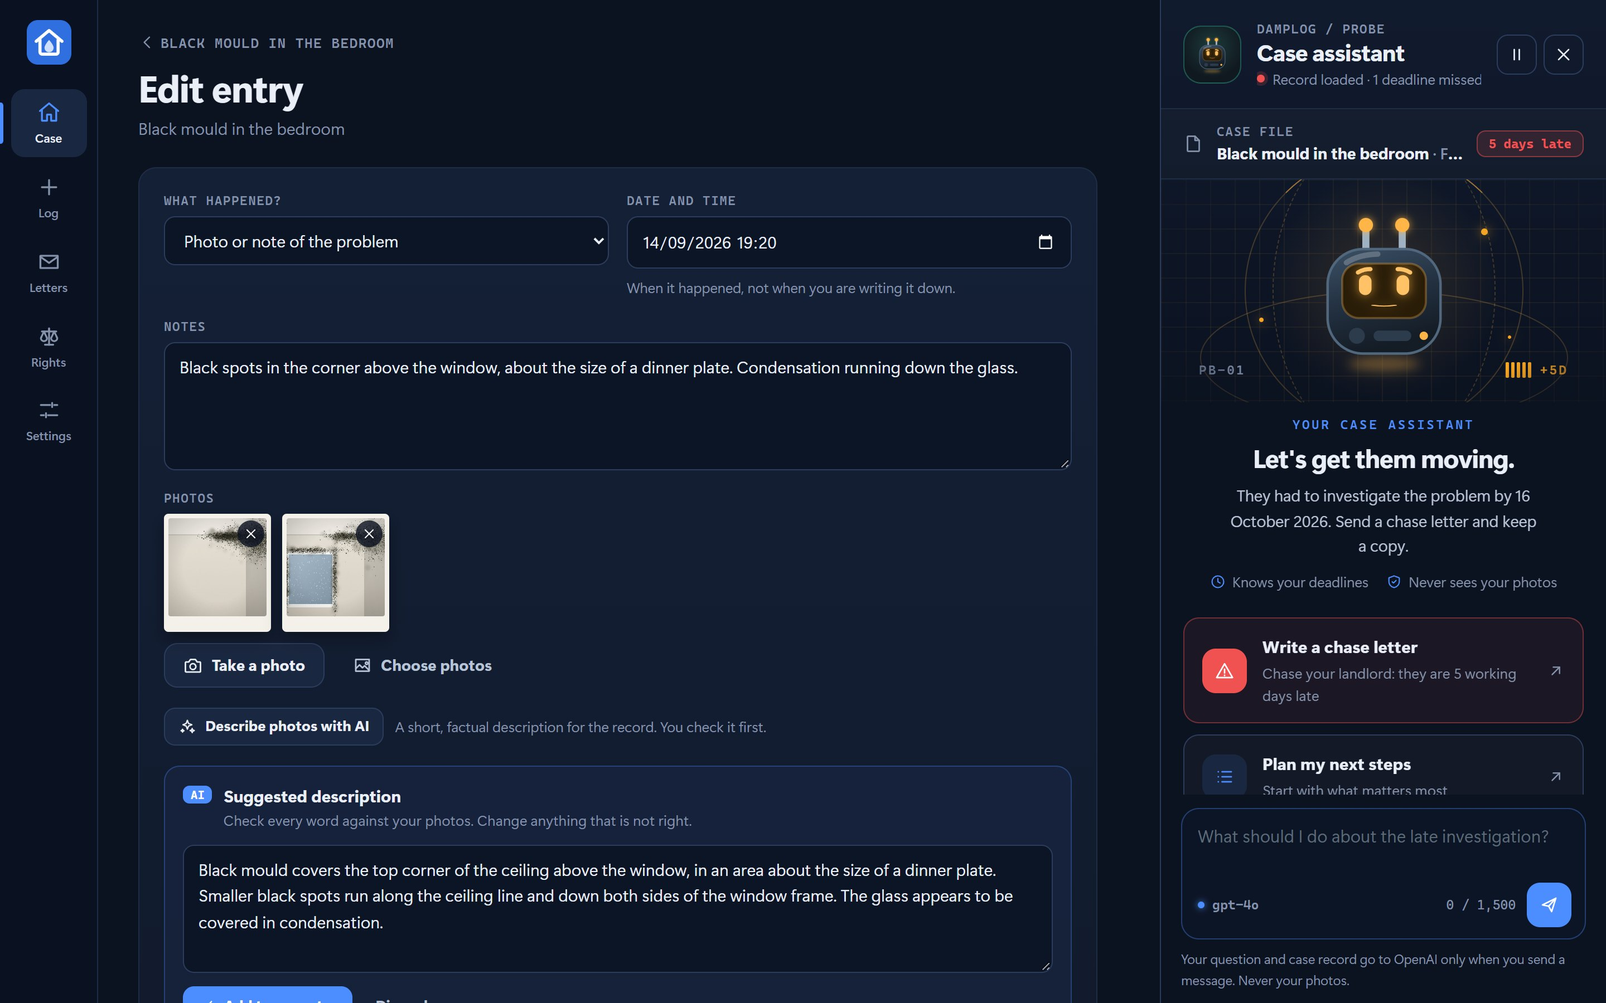
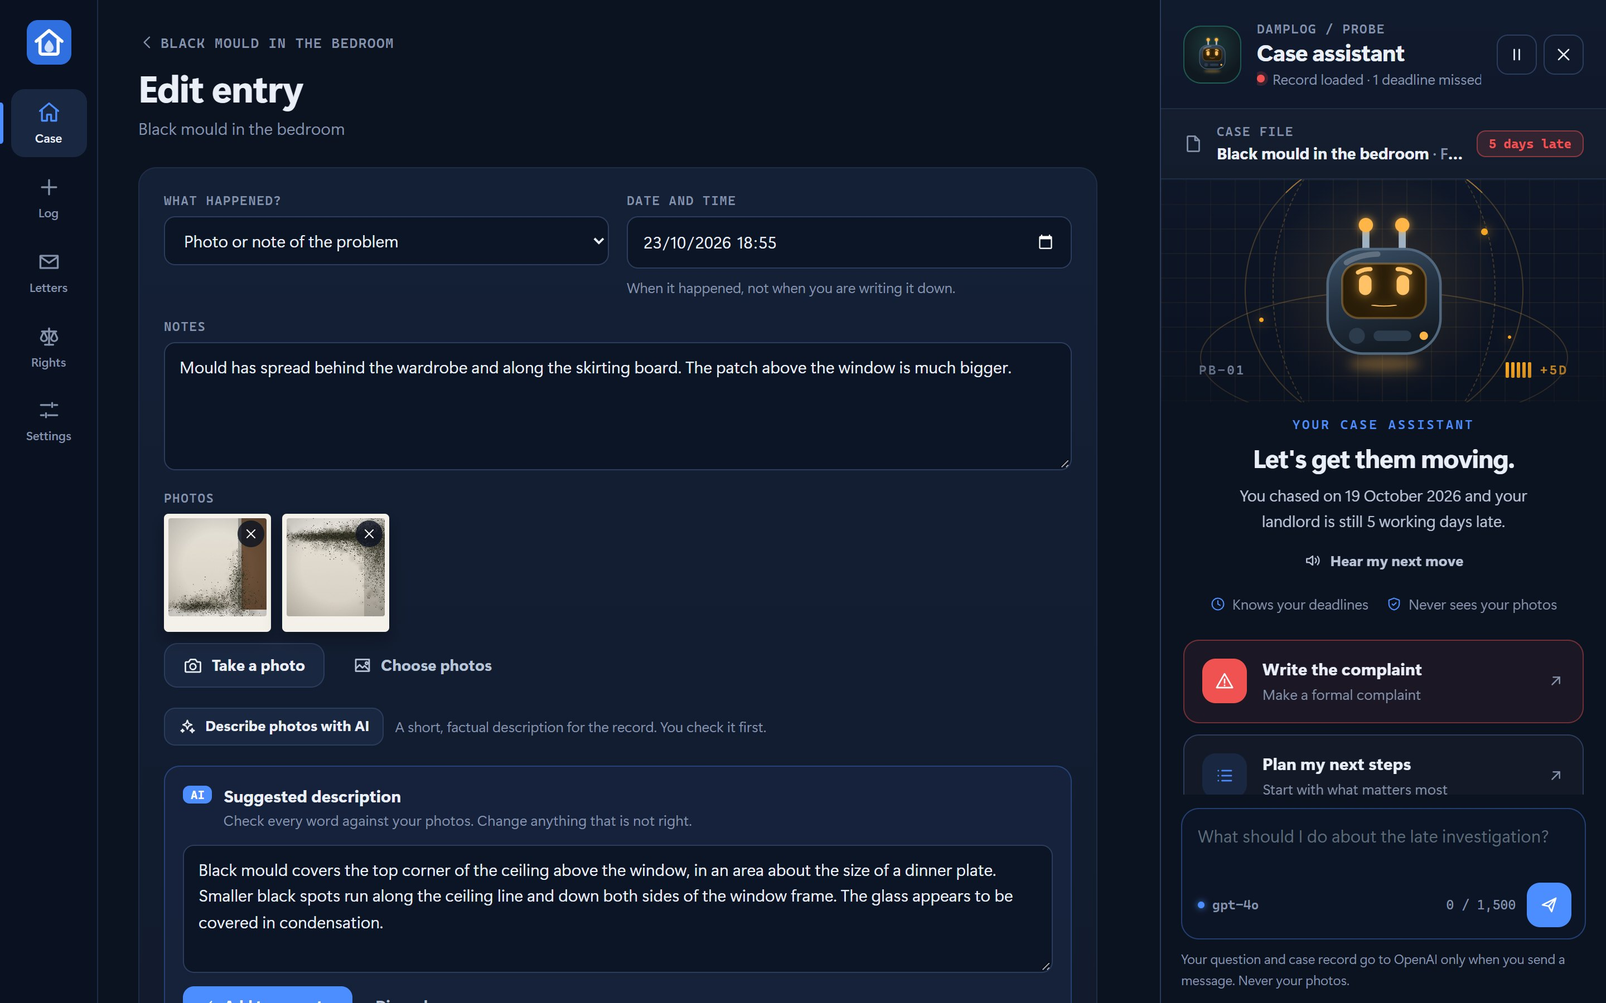
Add then-and-now photos, calendar reminders and Probe's voice
Drag across two photos of the same spot to show how a problem has spread,
also shown side by side in the evidence report. Upcoming landlord
deadlines save as a calendar file with reminders. Probe reads its answers
aloud with the device's own voice, offline.

diff --git a/js/app.js b/js/app.js
@@ -570,7 +570,7 @@ function viewIssue(id) {
         btn('Write the report', { icon: 'mail', size: 'sm', kind: 'primary', href: `#/letters/${issue.id}?kind=report` }),
         btn('I have reported it', { icon: 'check', size: 'sm', href: `#/add/${issue.id}?type=reported` }))),
     h('div', { class: 'grid-2 wide-left' },
-      timelineCard(issue, s),
+      h('div', { class: 'stack' }, compareCard(issue), timelineCard(issue, s)),
       h('div', { class: 'stack' },
         deadlinesCard(issue, s, t),
         card('',
@@ -580,6 +580,70 @@ function viewIssue(id) {
           h('div', { class: 'actions' },
             s.fixed ? btn('Reopen', { icon: 'refresh', size: 'sm', onclick: reopen }) : btn('Mark as fixed', { icon: 'check', size: 'sm', href: `#/add/${issue.id}?type=fixed` }),
             btn('Delete', { icon: 'trash', size: 'sm', kind: 'ghost', onclick: deleteIssue }))))));
+}
+
+/** Then and now: drag across two photos of the same problem to show how it has changed. */
+function compareCard(issue) {
+  const photos = state.photos.filter((p) => p.issueId === issue.id).sort((a, b) => String(a.takenAt).localeCompare(String(b.takenAt)));
+  if (photos.length < 2) return null;
+  let then = photos[0];
+  let now = photos.at(-1);
+  const thenImg = h('img', { alt: '' });
+  const nowImg = h('img', { alt: '' });
+  const thenLabel = h('span', { class: 'cmp-label then' });
+  const nowLabel = h('span', { class: 'cmp-label now' });
+  const gap = h('span', { class: 'cmp-gap' });
+  const frame = h('div', { class: 'compare' }, nowImg, h('div', { class: 'compare-then' }, thenImg), h('span', { class: 'compare-handle' }), thenLabel, nowLabel);
+  const range = h('input', { type: 'range', min: 0, max: 100, value: 50, class: 'compare-range', 'aria-label': 'Slide between the earlier and the later photo' });
+  const setPos = (pct) => {
+    const v = Math.max(0, Math.min(100, pct));
+    range.value = String(Math.round(v));
+    frame.style.setProperty('--pos', `${v}%`);
+  };
+  const paint = () => {
+    thenImg.src = photoUrl(then);
+    nowImg.src = photoUrl(now);
+    thenLabel.textContent = `Then · ${fmtDate(then.takenAt)}`;
+    nowLabel.textContent = `Now · ${fmtDate(now.takenAt)}`;
+    const days = core.daysBetween(core.dateOf(then.takenAt), core.dateOf(now.takenAt));
+    gap.textContent = days > 0 ? `${plural(days, 'day')} apart` : 'Same day';
+  };
+  range.addEventListener('input', () => setPos(Number(range.value)));
+  // Drag straight on the photos too, with a finger or a mouse.
+  const follow = (e) => {
+    const box = frame.getBoundingClientRect();
+    setPos(((e.clientX - box.left) / box.width) * 100);
+  };
+  frame.addEventListener('pointerdown', (e) => {
+    frame.setPointerCapture(e.pointerId);
+    follow(e);
+  });
+  frame.addEventListener('pointermove', (e) => { if (frame.hasPointerCapture(e.pointerId)) follow(e); });
+  const choose = (which) => h('select', {
+    'aria-label': which === 'then' ? 'Earlier photo' : 'Later photo',
+    onchange: (e) => {
+      const p = photos.find((x) => x.id === e.target.value);
+      if (which === 'then') then = p;
+      else now = p;
+      paint();
+    },
+  }, photos.map((p, i) => h('option', { value: p.id, selected: p === (which === 'then' ? then : now) }, `Photo ${i + 1} · ${fmtTime(p.takenAt)}`)));
+  paint();
+  setPos(50);
+  return card('compare-card',
+    cardHead('Then and now', { iconName: 'compare', sub: 'Drag across the photo to show how it has changed' }),
+    frame, range,
+    h('div', { class: 'compare-foot' }, choose('then'), gap, choose('now')));
+}
+
+function downloadCalendar(list) {
+  const ics = core.deadlineCalendar(state.home, list, new Date().toISOString());
+  if (!ics) {
+    toast('There are no upcoming deadlines to add.', 'bad');
+    return;
+  }
+  download('damplog-deadlines.ics', ics, 'text/calendar');
+  toast('Calendar file saved. Open it to add the deadlines and reminders to your calendar.');
 }
 
 function deadlinesCard(issue, s, t) {
@@ -607,7 +671,9 @@ function deadlinesCard(issue, s, t) {
     cardHead('Landlord deadlines', { iconName: 'clock', sub }),
     d.reportedAt && h('p', { class: 'small' }, `Told ${fmtTime(d.reportedAt)} · ${plural(s.workingDaysSinceReport, 'working day')} ago`),
     body,
-    d.overdue.length > 0 && btn('Chase your landlord', { icon: 'mail', kind: 'primary', href: `#/letters/${issue.id}?kind=chase` }));
+    h('div', { class: 'actions' },
+      d.overdue.length > 0 && btn('Chase your landlord', { icon: 'mail', kind: 'primary', href: `#/letters/${issue.id}?kind=chase` }),
+      d.steps.some((x) => x.status === 'pending' && x.due) && btn('Add to my calendar', { icon: 'calendar', onclick: () => downloadCalendar([s]) })));
 }
 
 function timelineCard(issue, s) {
@@ -950,6 +1016,17 @@ function viewReport(id) {
             h('td', {}, step.dueAt ? fmtTime(step.dueAt) : step.due ? fmtDate(step.due) : '—'),
             h('td', {}, step.doneAt ? fmtTime(step.doneAt) : '—'),
             h('td', {}, STEP_TONE[step.status][1])))))),
+      allPhotos.length > 1 && (() => {
+        // The first and latest photos side by side show whether the problem is getting worse.
+        const byTime = allPhotos.map((x) => x.photo).sort((a, b) => String(a.takenAt).localeCompare(String(b.takenAt)));
+        const [first, last] = [byTime[0], byTime.at(-1)];
+        const days = core.daysBetween(core.dateOf(first.takenAt), core.dateOf(last.takenAt));
+        return h('section', { class: 'report-compare' },
+          h('h2', {}, `Then and now · ${plural(days, 'day')} apart`),
+          h('div', { class: 'photo-grid' }, [[first, 'Then'], [last, 'Now']].map(([p, label]) => h('figure', {},
+            h('img', { src: photoUrl(p), alt: `${label}: photo ${photoNumber.get(p.id)}` }),
+            h('figcaption', {}, h('strong', {}, `${label}. `), `Photo ${photoNumber.get(p.id)} · ${fmtTime(p.takenAt)}`)))));
+      })(),
       h('section', {},
         h('h2', {}, 'Timeline'),
         h('table', { class: 'grid timeline-table' },
@@ -1006,6 +1083,7 @@ function openProbe({ focus = false, ask } = {}) {
     if (!probePanel) {
       probePanel = h('dialog', { class: 'probe-panel', 'aria-label': 'Probe, your case assistant', tabindex: '-1' });
       probePanel.addEventListener('click', (e) => { if (e.target === probePanel) probePanel.close(); });
+      probePanel.addEventListener('close', stopSpeaking);
       document.body.append(probePanel);
     }
     if (!probePanel.open) {
@@ -1020,6 +1098,7 @@ function openProbe({ focus = false, ask } = {}) {
 }
 
 function closeProbe() {
+  stopSpeaking();
   if (probeDocked()) {
     chat.hidden = true;
     render();
@@ -1035,6 +1114,40 @@ function goFromProbe(href) {
 
 wide.addEventListener('change', () => render());
 
+// Probe reads aloud with the device's own voice, so it works offline and sends
+// nothing anywhere. Its mouth moves while it speaks.
+const canSpeak = 'speechSynthesis' in window;
+
+function restMood() {
+  const lead = summaries().find((s) => !s.fixed);
+  return chat.busy ? 'thinking' : lead?.deadlines.overdue.length ? 'alert' : 'idle';
+}
+
+function stopSpeaking() {
+  if (canSpeak) speechSynthesis.cancel();
+}
+
+function speak(text, face) {
+  if (!canSpeak) return;
+  if (speechSynthesis.speaking) {
+    stopSpeaking();
+    return;
+  }
+  // Read the words, not the formatting: drop bold marks, headings and list markers.
+  const plain = text.replace(/\*\*|`/g, '').replace(/^\s*#+\s*/gm, '').replace(/^\s*(?:[-*•]|\d+[.)])\s+/gm, '');
+  const say = new SpeechSynthesisUtterance(plain);
+  const voices = speechSynthesis.getVoices();
+  say.voice = voices.find((v) => v.lang === 'en-GB') ?? voices.find((v) => v.lang.startsWith('en')) ?? null;
+  say.lang = 'en-GB';
+  say.onstart = () => [face, chat.face].forEach((f) => setProbeMood(f, 'talking'));
+  say.onend = () => {
+    setProbeMood(face, face === chat.face ? restMood() : 'idle');
+    setProbeMood(chat.face, restMood());
+  };
+  say.onerror = say.onend;
+  speechSynthesis.speak(say);
+}
+
 function fillReply(m) {
   if (!m.el) return;
   const { text, actions } = splitActions(m.content);
@@ -1043,8 +1156,9 @@ function fillReply(m) {
   else if (!text) m.el.replaceChildren(h('span', { class: 'typing', 'aria-label': 'Probe is taking a reading' }, h('i'), h('i'), h('i')));
   else {
     m.el.replaceChildren(...[renderMarkdown(text),
-      !m.pending && urgent && actions.length > 0 && h('div', { class: 'msg-actions' },
-        actions.map((id) => btn(ACTION_IDS[id].label, { size: 'sm', icon: 'next', onclick: () => goFromProbe(ACTION_IDS[id].path(urgent.issue.id)) })))].filter(Boolean));
+      !m.pending && h('div', { class: 'msg-actions' },
+        urgent && actions.map((id) => btn(ACTION_IDS[id].label, { size: 'sm', icon: 'next', onclick: () => goFromProbe(ACTION_IDS[id].path(urgent.issue.id)) })),
+        canSpeak && btn('Listen', { size: 'sm', icon: 'volume', kind: 'ghost', onclick: () => speak(text, m.face) }))].filter(Boolean));
   }
   const mood = m.pending ? (text ? 'talking' : 'thinking') : 'idle';
   setProbeMood(m.face, mood);
@@ -1089,7 +1203,7 @@ function paintProbe() {
       h('h2', {}, 'Case assistant'),
       h('span', { class: `pp-status ${late ? 'bad' : ''}` }, h('i'), status)),
     h('div', { class: 'pp-tools' },
-      talking && !chat.busy && btn('', { icon: 'refresh', title: 'New chat', onclick: () => { chat.messages = []; paintProbe(); } }),
+      talking && !chat.busy && btn('', { icon: 'refresh', title: 'New chat', onclick: () => { stopSpeaking(); chat.messages = []; paintProbe(); } }),
       btn('', { icon: chat.calm ? 'play' : 'pause', title: chat.calm ? 'Play animations' : 'Pause animations', onclick: () => { chat.calm = !chat.calm; paintProbe(); } }),
       btn('', { icon: 'close', title: docked ? 'Hide Probe' : 'Close', onclick: closeProbe })));
 
@@ -1123,6 +1237,7 @@ function paintProbe() {
         h('span', { class: 'kicker' }, 'Your case assistant'),
         h('h3', {}, late ? 'Let\'s get them moving.' : steps.length ? 'Let\'s keep your case on track.' : 'All quiet on your case.'),
         h('p', {}, steps[0]?.text ?? 'Ask me anything about your record. I know your dates and the deadlines.'),
+        canSpeak && steps[0] && btn('Hear my next move', { icon: 'volume', size: 'sm', kind: 'ghost', onclick: () => speak(`${steps[0].title}. ${steps[0].text}`, chat.face) }),
         h('div', { class: 'pp-chips' },
           h('span', {}, icon('clock', 14), 'Knows your deadlines'),
           h('span', {}, icon('shield', 14), 'Never sees your photos'))),

diff --git a/js/core.js b/js/core.js
@@ -317,3 +317,59 @@ export function caseClock(summary, today) {
   if (truncated) days = days.slice(-MAX_CELLS);
   return { mode: 'days', step, start, due: step.due, allowed, elapsed, overdueBy: Math.max(0, elapsed - allowed), days, truncated };
 }
+
+/* ---------- deadlines as calendar events ---------- */
+
+const icsText = (s) => String(s).replace(/\\/g, '\\\\').replace(/;/g, '\\;').replace(/,/g, '\\,').replace(/\r?\n/g, '\\n');
+const encoder = new TextEncoder();
+
+// Calendar lines may be at most 75 bytes; longer ones carry on after a line break and a space.
+function fold(line) {
+  const parts = [];
+  let rest = line;
+  let limit = 75;
+  while (encoder.encode(rest).length > limit) {
+    let cut = limit;
+    while (encoder.encode(rest.slice(0, cut)).length > limit) cut--;
+    parts.push(rest.slice(0, cut));
+    rest = rest.slice(cut);
+    limit = 74;
+  }
+  parts.push(rest);
+  return parts.join('\r\n ');
+}
+
+/**
+ * The landlord's upcoming deadlines as an iCalendar file, so a phone calendar can
+ * remind the tenant. Each deadline is an all-day event (or a timed one for the
+ * 24-hour emergency clock) with a reminder before it. Returns null if nothing is due.
+ * @param {string} stamp ISO time the file is made
+ */
+export function deadlineCalendar(home, summaries, stamp) {
+  const utc = new Date(stamp).toISOString().replace(/[-:]/g, '').replace(/\.\d{3}/, '');
+  const events = [];
+  for (const s of summaries) {
+    if (s.fixed) continue;
+    for (const step of s.deadlines.steps) {
+      if (step.status !== 'pending' || !step.due) continue;
+      const who = home.landlordName || 'Your landlord';
+      const what = step.title.charAt(0).toLowerCase() + step.title.slice(1);
+      events.push('BEGIN:VEVENT', `UID:${s.issue.id}-${step.key}@damplog`, `DTSTAMP:${utc}`);
+      if (step.dueAt) {
+        const at = `${step.dueAt.replace(/[-:]/g, '')}00`;
+        events.push(`DTSTART:${at}`, `DTEND:${at}`);
+      } else {
+        events.push(`DTSTART;VALUE=DATE:${step.due.replace(/-/g, '')}`, `DTEND;VALUE=DATE:${addDays(step.due, 1).replace(/-/g, '')}`);
+      }
+      events.push(
+        `SUMMARY:${icsText(`Deadline: ${who} must ${what} (${s.issue.title})`)}`,
+        `DESCRIPTION:${icsText(`${step.rule}. If it has not happened by the end of the day, open DampLog and send a chase letter.`)}`,
+        'BEGIN:VALARM', 'ACTION:DISPLAY',
+        `DESCRIPTION:${icsText(`${step.dueAt ? 'In 2 hours' : 'Tomorrow'}: ${who} must ${what}`)}`,
+        step.dueAt ? 'TRIGGER:-PT2H' : 'TRIGGER:-PT15H',
+        'END:VALARM', 'END:VEVENT');
+    }
+  }
+  if (!events.length) return null;
+  return `${['BEGIN:VCALENDAR', 'VERSION:2.0', 'PRODID:-//DampLog//Landlord deadlines//EN', 'CALSCALE:GREGORIAN', 'METHOD:PUBLISH', 'X-WR-CALNAME:DampLog deadlines', ...events, 'END:VCALENDAR'].map(fold).join('\r\n')}\r\n`;
+}

diff --git a/js/sample.js b/js/sample.js
@@ -65,7 +65,7 @@ function vignette(ctx, w, h) {
 
 const MOULD = ['rgba(28,30,24,A)', 'rgba(44,48,34,A)', 'rgba(62,58,40,A)', 'rgba(20,20,20,A)'];
 
-/** Draws one sample photo: 'corner', 'window', 'wardrobe' or 'sink'. */
+/** Draws one sample photo: 'corner', 'corner-late', 'window', 'wardrobe' or 'sink'. */
 export function drawSample(kind, seed = 1) {
   const w = 1200;
   const h = 900;
@@ -142,6 +142,8 @@ export function drawSample(kind, seed = 1) {
       spots(ctx, r, [{ x: 370, y: 296, sx: 160, sy: 12 }, { x: 150, y: 560, sx: 10, sy: 150 }, { x: 590, y: 560, sx: 10, sy: 150 }], 2600, MOULD);
     }
     spots(ctx, r, [{ x: 870, y: 175, sx: 120, sy: 55 }, { x: 980, y: 210, sx: 80, sy: 90 }, { x: 700, y: 165, sx: 90, sy: 18 }], kind === 'window' ? 3200 : 6500, MOULD);
+    // Weeks later the same corner: the growth has spread along the ceiling and down the wall.
+    if (kind === 'corner-late') spots(ctx, r, [{ x: 760, y: 190, sx: 230, sy: 70 }, { x: 1010, y: 360, sx: 90, sy: 200 }, { x: 480, y: 168, sx: 170, sy: 22 }], 9000, MOULD);
   }
   vignette(ctx, w, h);
   return canvas;
@@ -202,8 +204,8 @@ export function sampleData(today, ctx) {
     { issueId: mould.id, type: 'contact', at: at(weekday(addDays(today, -6)), '13:40'), method: 'Email',
       text: 'Emailed repairs to ask when the surveyor will visit. No reply yet.' },
     { issueId: mould.id, type: 'observation', at: at(addDays(today, -2), '18:55'),
-      text: 'Mould has spread behind the wardrobe and along the skirting board.',
-      photoIds: [photo(mould, 'wardrobe', 23, at(addDays(today, -2), '18:52'))] },
+      text: 'Mould has spread behind the wardrobe and along the skirting board. The patch above the window is much bigger.',
+      photoIds: [photo(mould, 'wardrobe', 23, at(addDays(today, -2), '18:52')), photo(mould, 'corner-late', 7, at(addDays(today, -2), '18:54'))] },
 
     { issueId: leak.id, type: 'observation', at: at(addDays(today, -84), '20:30'), text: 'Water pooling in the cupboard under the sink.',
       photoIds: [photo(leak, 'sink', 5, at(addDays(today, -84), '20:28'))] },

diff --git a/css/styles.css b/css/styles.css
@@ -731,3 +731,20 @@ button.thumb:hover { transform: rotate(0) scale(1.04); }
 }
 .clock-head h2 a { color: var(--ink); }
 .clock-head h2 a:hover { color: var(--accent); text-decoration: none; }
+
+/* ---------- then and now ---------- */
+
+.compare { --pos: 50%; position: relative; aspect-ratio: 4 / 3; border-radius: 12px; overflow: hidden; background: #05080e; cursor: ew-resize; touch-action: none; user-select: none; }
+.compare img { position: absolute; inset: 0; width: 100%; height: 100%; object-fit: cover; pointer-events: none; }
+.compare-then { position: absolute; inset: 0; clip-path: inset(0 calc(100% - var(--pos)) 0 0); }
+.compare-handle { position: absolute; top: 0; bottom: 0; left: var(--pos); width: 2px; margin-left: -1px; background: #fff; box-shadow: 0 0 0 1px rgb(0 0 0 / 25%); pointer-events: none; }
+.compare-handle::after { content: "‹ ›"; position: absolute; top: 50%; left: 50%; display: grid; place-items: center; width: 40px; height: 40px; border-radius: 50%; transform: translate(-50%, -50%); background: #fff; color: #0b1220; font: 800 1rem/1 var(--font); letter-spacing: 0.08em; box-shadow: 0 6px 16px rgb(0 0 0 / 45%); }
+.cmp-label { position: absolute; top: 12px; padding: 4px 9px; border-radius: 8px; background: rgb(11 18 32 / 78%); color: #fff; font: 600 0.72rem var(--mono); letter-spacing: 0.04em; pointer-events: none; }
+.cmp-label.then { left: 12px; }
+.cmp-label.now { right: 12px; background: var(--accent); }
+.compare-range { padding: 0; border: 0; background: none; box-shadow: none; accent-color: var(--accent); }
+.compare-range:focus { box-shadow: none; }
+.compare-foot { display: flex; align-items: center; gap: 10px; }
+.compare-foot select { flex: 1; min-width: 0; font-size: 0.84rem; padding: 8px 10px; }
+.cmp-gap { flex: none; font: 700 0.74rem var(--mono); color: var(--accent); text-transform: uppercase; letter-spacing: 0.06em; }
+@media (max-width: 560px) { .compare-foot { flex-wrap: wrap; } .compare-foot select { flex: 1 1 100%; } .cmp-gap { order: -1; } }

diff --git a/tests/core.test.js b/tests/core.test.js
@@ -181,3 +181,25 @@ test('the clock has nothing to count before reporting, after fixing, or for emer
   assert.equal(caseClock(e, today('2026-10-20', '10:00')).mode, 'long');
   assert.equal(caseClock(issueSummary(issue(), [entry('reported', '2026-10-01T10:00')], 'private', today('2026-10-20')), today('2026-10-20')).mode, 'no-deadlines');
 });
+
+test('upcoming deadlines become calendar events with reminders', async () => {
+  const { deadlineCalendar } = await import('../js/core.js');
+  const s = issueSummary(cleanIssue({ id: 'i1', kind: 'damp-mould', title: 'Mould, bedroom; window' }, ctx), [entry('reported', '2026-10-12T10:00')], 'social', today('2026-10-20'));
+  const ics = deadlineCalendar({ landlordName: 'Elm Court Homes, Ltd' }, [s], '2026-10-20T08:00:00Z');
+  assert.match(ics, /^BEGIN:VCALENDAR\r\n/);
+  assert.match(ics, /\r\nEND:VCALENDAR\r\n$/);
+  assert.match(ics, /DTSTART;VALUE=DATE:20261026\r\nDTEND;VALUE=DATE:20261027/);
+  assert.match(ics, /UID:i1-investigation@damplog/);
+  assert.match(ics, /DTSTAMP:20261020T080000Z/);
+  assert.match(ics, /TRIGGER:-PT15H/);
+  const unfolded = ics.replace(/\r\n /g, '');
+  assert.match(unfolded, /SUMMARY:Deadline: Elm Court Homes\\, Ltd must investigate the problem \(Mould\\, bedroom\\; window\)/);
+  assert.ok(ics.split('\r\n').every((line) => new TextEncoder().encode(line).length <= 75));
+  assert.equal(ics.match(/BEGIN:VEVENT/g).length, 1); // the next steps wait for the investigation
+});
+
+test('no calendar when nothing is coming up', async () => {
+  const { deadlineCalendar } = await import('../js/core.js');
+  const late = issueSummary(issue(), [entry('reported', '2026-09-01T10:00')], 'social', today('2026-10-20'));
+  assert.equal(deadlineCalendar({}, [late], '2026-10-20T08:00:00Z'), null);
+});

diff --git a/js/icons.js b/js/icons.js
@@ -31,6 +31,9 @@ export const ICONS = {
   pause: ['M9 6v12', 'M15 6v12'],
   play: ['M8 5.5v13l10.5-6.5z'],
   arrowUpRight: ['M7 17 17 7', 'M8.5 7H17v8.5'],
+  compare: ['M12 3v18', 'M4 6.5h5v11H4z', 'M15 6.5h5v11h-5z'],
+  calendar: ['M4 5.5h16v15H4z', 'M4 10h16', 'M8.5 3v4', 'M15.5 3v4'],
+  volume: ['M4 9.5h3.5L12 6v12l-4.5-3.5H4z', 'M15.5 9a4 4 0 0 1 0 6', 'M18.5 6.5a8 8 0 0 1 0 11'],
   back: ['M15 5l-7 7 7 7'],
   next: ['M5 12h14', 'M13 6l6 6-6 6'],
   close: ['M6 6l12 12', 'M18 6 6 18'],

diff --git a/sw.js b/sw.js
@@ -1,7 +1,7 @@
 // Offline support: serve the app from the cache, refresh the cache in the background.
 // Bump CACHE on every release so old files are dropped.
 
-const CACHE = 'damplog-v4';
+const CACHE = 'damplog-v5';
 const SHELL = [
   './',
   'index.html',

diff --git a/README.md b/README.md
@@ -34,8 +34,10 @@ The deadlines only help a tenant who can show when the landlord was told and wha
 - **Dated evidence.** Photos, notes, calls, visits, missed appointments and effects on health, in one timeline per problem. Photos are shrunk and stored on the device.
 - **The landlord's clock.** Once a problem is recorded as reported, DampLog works out each deadline under the regulations and shows it as a clock: one cell per working day, with the days past the deadline in red.
 - **Letters.** One tap builds a letter to report the problem, chase a missed deadline or make a formal complaint, filled in from the record. You can edit it, copy it, email it or print it.
+- **Then and now.** Drag across two photos of the same spot to show how the problem has spread, with the number of days between them. The evidence report puts the first and latest photos side by side.
+- **Deadlines in your calendar.** One tap saves the landlord's upcoming deadlines as a calendar file, with a reminder the day before each one.
 - **Evidence report.** A printable pack with the summary, deadlines, full timeline and numbered photos, ready for a complaint, the Housing Ombudsman or an adviser.
-- **Probe, the case assistant.** A little damp meter with a screen face. It reads your record and tells you the next move on its own, with no AI needed. Add your own AI key and you can ask it anything: answers come from your timeline and the deadlines DampLog has worked out, with buttons that open the right screen. It never sees your photos.
+- **Probe, the case assistant.** A little damp meter with a screen face. It reads your record and tells you the next move on its own, with no AI needed. Add your own AI key and you can ask it anything: answers come from your timeline and the deadlines DampLog has worked out, with buttons that open the right screen. It never sees your photos. It can also read its answers aloud with the device's own voice, which works offline.
 - **Optional AI help.** With the tenant's own OpenAI or Claude key, AI describes photos factually for the record and tightens letters. Nothing the AI writes is saved until the tenant accepts it. Letter changes are shown word by word, and code checks that no date, reference or name was dropped or invented and that no legal threat was added.
 - **Your rights.** A plain-English summary of the deadlines and the route if a landlord does not act, with links to the official guidance.
 - **Private renters.** For private landlords, the same steps are tracked without legal due dates, because Awaab's Law does not apply to private renting yet.
@@ -47,8 +49,8 @@ The deadlines only help a tenant who can show when the landlord was told and wha
 | ![Timeline with photos, and the deadline tracker showing a missed investigation](docs/problem.jpg) | ![Evidence report with summary, deadline table and timeline](docs/report.jpg) |
 | **Probe answers from your record, with buttons to act** | **AI tightens a letter, every change shown and fact-checked** |
 | ![Probe explaining a missed deadline, with buttons to write the chase letter and log contact](docs/assistant.jpg) | ![Word-by-word changes to a letter, with the fact check passed](docs/ai-letter.jpg) |
-| **AI describes the photos, you check the words** | |
-| ![AI photo description waiting in a review box](docs/ai-photo.jpg) | |
+| **AI describes the photos, you check the words** | **Then and now: drag to show how it has spread** |
+| ![AI photo description waiting in a review box](docs/ai-photo.jpg) | ![A before and after slider comparing the same corner weeks apart](docs/then-now.jpg) |
 
 <div align="center">
 <img src="docs/phone-overview.jpg" alt="DampLog overview on a phone" width="260">&nbsp;&nbsp;
